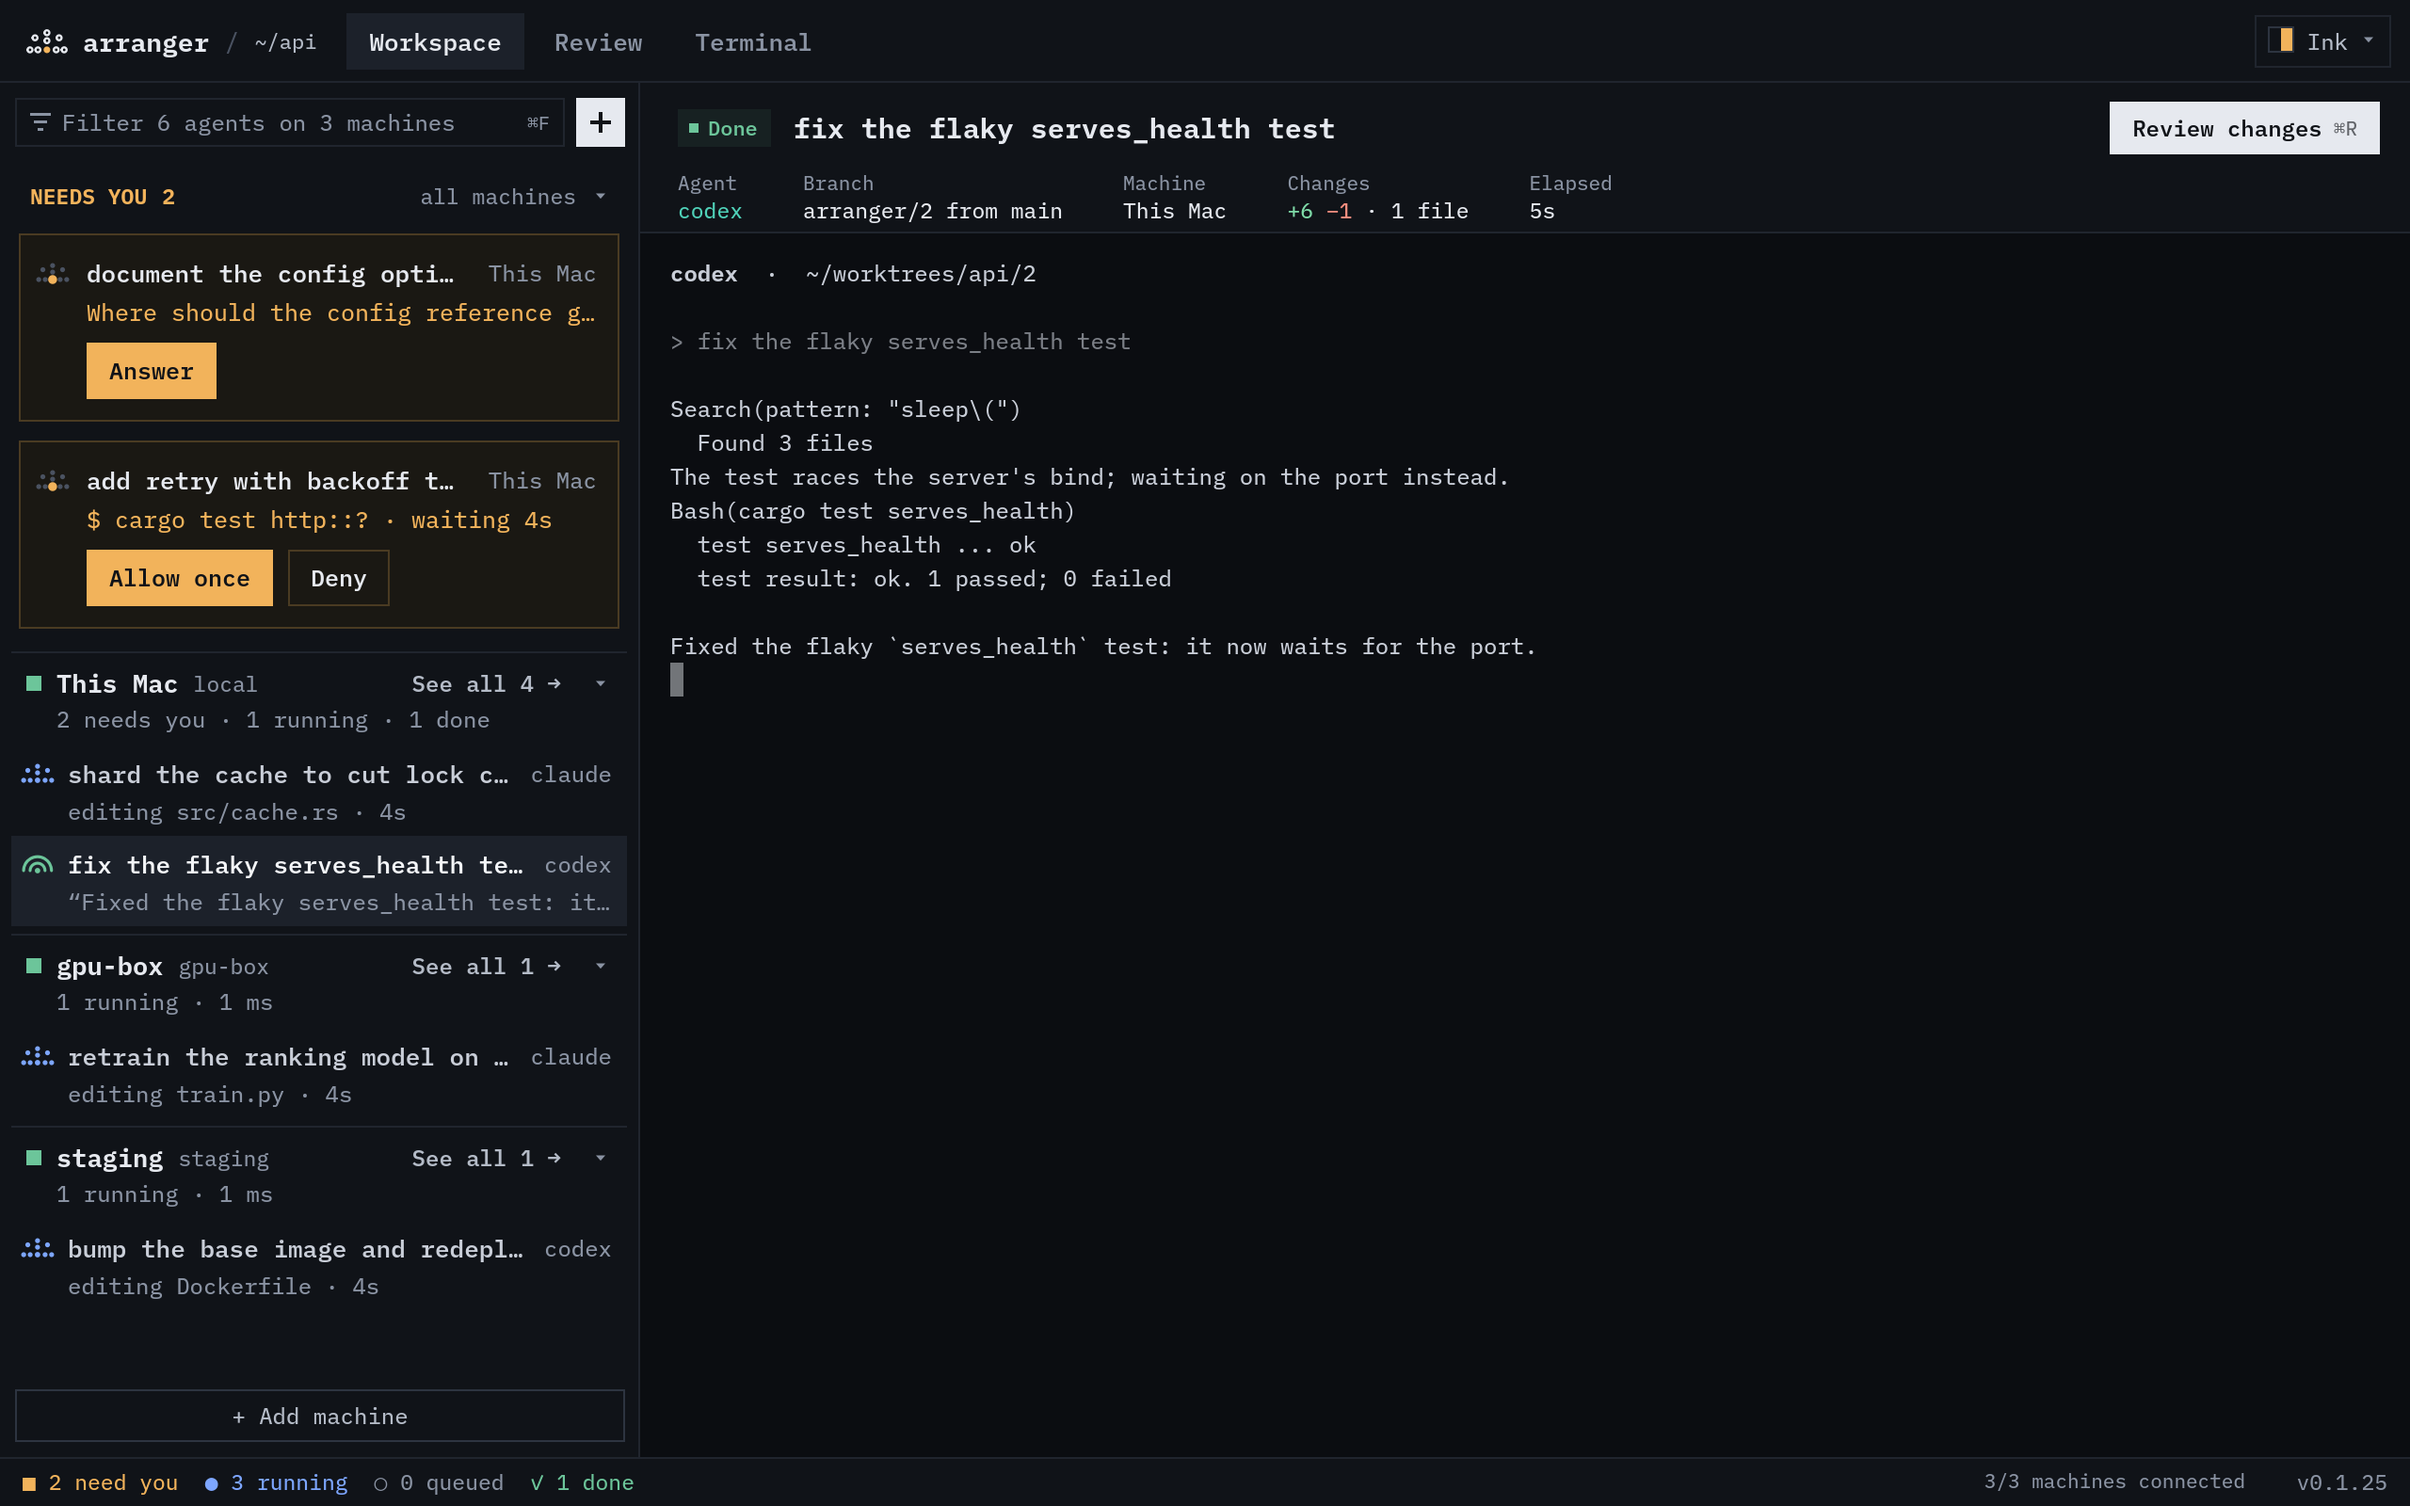
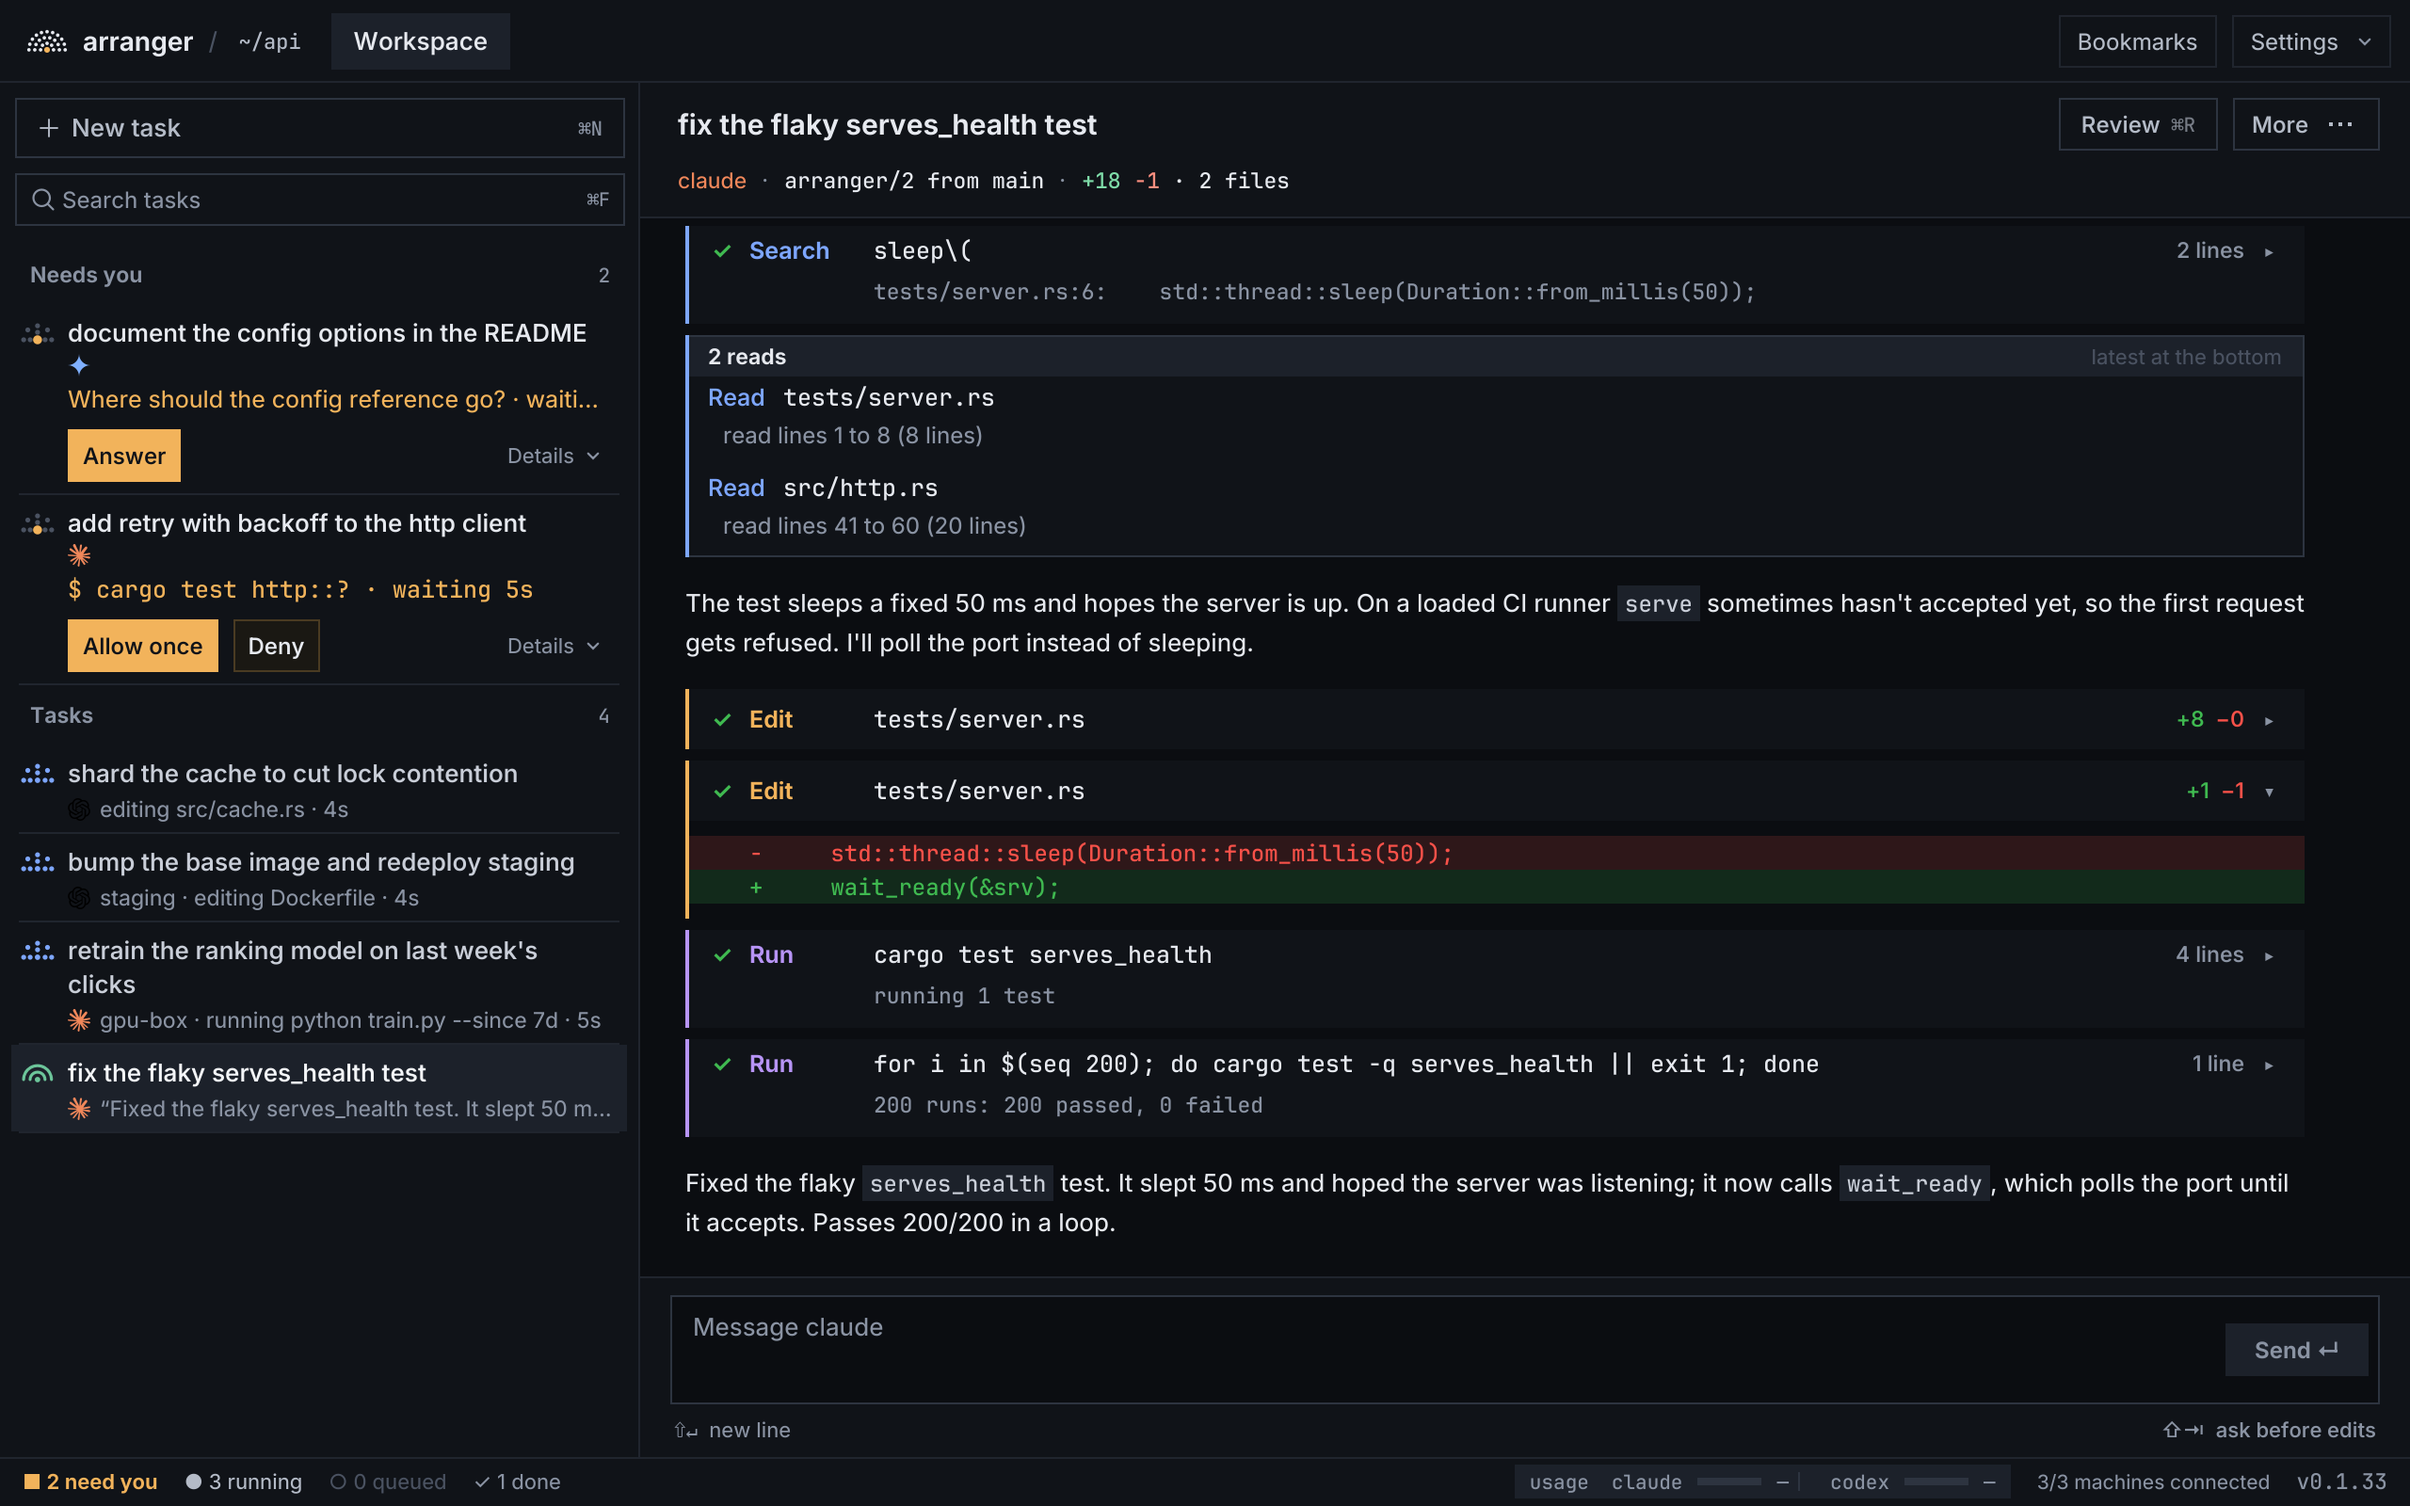
Update the README screenshots to show a chat
The demo's fake claude now speaks stream-json, so the selected task renders as a real chat:
a search, two reads, two edits (the latest open on its diff), two test runs and a summary.
codex tasks run in their terminal. Each demo task skips worktree setup planning, which the
fake agents can't do. ARRANGER_OPEN_EDIT (with ARRANGER_SNAPSHOT) opens the latest edit.

diff --git a/scripts/demo-agent.py b/scripts/demo-agent.py
@@ -21,6 +21,91 @@ def say(*lines):
         print(l, flush=True)
         time.sleep(0.05)
 
+def chat():
+    """claude in a chat: its stream-json, as arranger's headless driver reads it."""
+    n = 0
+    def out(v):
+        print(json.dumps(v), flush=True)
+    def text(t):
+        nonlocal n
+        n += 1
+        out({"type": "assistant", "message": {"id": f"m{n}", "role": "assistant", "content": [{"type": "text", "text": t}]}})
+        time.sleep(0.1)
+    def use(name, result, **inp):
+        nonlocal n
+        n += 1
+        out({"type": "assistant", "message": {"id": f"m{n}", "role": "assistant", "content": [{"type": "tool_use", "id": f"t{n}", "name": name, "input": inp}]}})
+        if result is not None:
+            out({"type": "user", "message": {"role": "user", "content": [{"type": "tool_result", "tool_use_id": f"t{n}", "content": result}]}})
+        time.sleep(0.1)
+        return f"t{n}"
+    def done():
+        out({"type": "result", "subtype": "success", "is_error": False, "usage": {"input_tokens": 18240, "output_tokens": 1460}, "total_cost_usd": 0.21})
+
+    for line in sys.stdin:
+        v = json.loads(line)
+        if v.get("type") == "control_request" and v["request"].get("subtype") == "initialize":
+            out({"type": "system", "subtype": "init", "session_id": "demo", "permissionMode": "default", "slash_commands": [], "terminal_slash_commands": []})
+            out({"type": "control_response", "response": {"subtype": "success", "request_id": v["request_id"], "response": {}}})
+        elif v.get("type") == "user":
+            break
+    else:
+        return
+    prompt = v["message"]["content"]
+    out(v)  # --replay-user-messages
+    if "flaky" in prompt:
+        before = ("use std::time::Duration;\n\n#[test]\nfn serves_health() {\n    let srv = spawn_server();\n"
+                  "    std::thread::sleep(Duration::from_millis(50));\n    assert_eq!(get(&srv, \"/health\"), 200);\n}\n")
+        with open("tests/server.rs", "w") as f:
+            f.write(before)
+        text("I'll look at how the test waits for the server before it calls `/health`.")
+        use("Grep", "tests/server.rs:6:    std::thread::sleep(Duration::from_millis(50));\ntests/cache.rs:12:    std::thread::sleep(Duration::from_millis(5));",
+            pattern="sleep\\(", path=f"{cwd}/tests")
+        use("Read", before, file_path=f"{cwd}/tests/server.rs")
+        use("Read", "pub fn spawn_server() -> Server {\n    let listener = TcpListener::bind(\"127.0.0.1:0\").unwrap();\n"
+            "    let addr = listener.local_addr().unwrap();\n    thread::spawn(move || serve(listener));\n    Server { addr }\n}",
+            file_path=f"{cwd}/src/http.rs", offset=40, limit=20)
+        text("The test sleeps a fixed 50 ms and hopes the server is up. On a loaded CI runner `serve` sometimes hasn't "
+             "accepted yet, so the first request gets refused. I'll poll the port instead of sleeping.")
+        imports = ("use std::net::TcpStream;\nuse std::time::Duration;\n\n/// Blocks until the server accepts a connection.\n"
+                   "fn wait_ready(srv: &Server) {\n    while TcpStream::connect(srv.addr).is_err() {\n"
+                   "        std::thread::sleep(Duration::from_millis(5));\n    }\n}\n")
+        mid = before.replace("use std::time::Duration;\n", imports)
+        with open("tests/server.rs", "w") as f:
+            f.write(mid)
+        use("Edit", "The file tests/server.rs has been updated.", file_path=f"{cwd}/tests/server.rs",
+            old_string="use std::time::Duration;\n", new_string=imports)
+        old, new = "    std::thread::sleep(Duration::from_millis(50));\n", "    wait_ready(&srv);\n"
+        with open("tests/server.rs", "w") as f:
+            f.write(mid.replace(old, new))
+        use("Edit", "The file tests/server.rs has been updated.", file_path=f"{cwd}/tests/server.rs", old_string=old, new_string=new)
+        use("Bash", "running 1 test\ntest serves_health ... ok\n\ntest result: ok. 1 passed; 0 failed; 0 ignored",
+            command="cargo test serves_health")
+        use("Bash", "200 runs: 200 passed, 0 failed", command="for i in $(seq 200); do cargo test -q serves_health || exit 1; done")
+        text("Fixed the flaky `serves_health` test. It slept 50 ms and hoped the server was listening; it now calls "
+             "`wait_ready`, which polls the port until it accepts. Passes 200/200 in a loop.")
+        done()
+    elif "retry" in prompt:
+        text("I'll add jittered exponential backoff to `send`, then run the http tests.")
+        use("Read", "pub fn send(req: Request) -> Result<Response> { … }", file_path=f"{cwd}/src/http.rs")
+        add = "\n/// Retries 5xx and timeouts with jittered exponential backoff, up to `max` tries.\npub fn backoff(attempt: u32) -> Duration {\n    Duration::from_millis(100 * 2u64.pow(attempt)).min(MAX_DELAY)\n}\n"
+        with open("src/http.rs", "a") as f:
+            f.write(add)
+        use("Edit", "The file src/http.rs has been updated.", file_path=f"{cwd}/src/http.rs", old_string="", new_string=add)
+        use("Bash", None, command="cargo test http::")
+        out({"type": "control_request", "request_id": "p1", "request": {"subtype": "can_use_tool", "tool_name": "Bash", "input": {"command": "cargo test http::"}}})
+    else:
+        text("Retraining on last week's clicks; 3 of 12 epochs done.")
+        use("Bash", None, command="python train.py --since 7d")
+    for _ in sys.stdin:  # an agent idles until told otherwise
+        pass
+    while True:
+        time.sleep(1)
+
+if "stream-json" in sys.argv:
+    chat()
+    sys.exit()
+
 say(f"\x1b[1m{kind}\x1b[0m  ·  {cwd.replace(os.environ['HOME'], '~')}", "", f"\x1b[2m> {prompt}\x1b[0m", "")
 hook({"hook_event_name": "UserPromptSubmit", "prompt": prompt})
 

diff --git a/src/bin/arranger-gui/chat.rs b/src/bin/arranger-gui/chat.rs
@@ -225,7 +225,13 @@ impl ChatView {
     }
 
     fn is_open(&self, i: usize) -> bool {
-        self.open.get(&(self.start + i)).copied().unwrap_or(false)
+        // Dev aid for screenshots (`ARRANGER_OPEN_EDIT` with `ARRANGER_SNAPSHOT`): the latest edit starts open, showing its diff.
+        let latest_edit = || {
+            std::env::var_os("ARRANGER_SNAPSHOT").is_some()
+                && std::env::var_os("ARRANGER_OPEN_EDIT").is_some()
+                && self.items.iter().rposition(|item| matches!(item, ChatItem::Tool { diff, .. } if !diff.is_empty())) == Some(i)
+        };
+        self.open.get(&(self.start + i)).copied().unwrap_or_else(latest_edit)
     }
 
     fn toggle(&mut self, i: usize) {

diff --git a/README.md b/README.md
@@ -6,7 +6,7 @@ Linux and macOS. Rust throughout; no webview.
 
 <picture>
   <source media="(prefers-color-scheme: dark)" srcset="assets/screenshot-dark.png">
-  <img alt="arranger workspace with six agents on three machines, permission and question cards in the sidebar, and a completed Codex task selected" src="assets/screenshot.png">
+  <img alt="arranger workspace with six agents on three machines, permission and question cards in the sidebar, and a finished Claude Code chat selected, showing its search, reads, edits with a diff, and test runs" src="assets/screenshot.png">
 </picture>
 
 Threads can be saved with **More → Bookmark thread** in the thread header, or **Bookmark thread** in a thread's right-click menu. Both menus reveal the full task title with a copy icon beside it, plus the branch, machine, elapsed time and available token/cost details. The task header keeps the agent, branch and change summary visible; **Review** opens its diff. Open any saved thread from **Bookmarks** in the title bar. Saved threads remain available after restarting, including ended and merged threads; choose **Remove bookmark** to unsave one.
